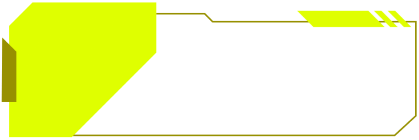
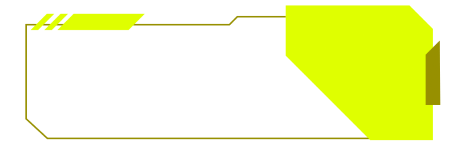
feat: update UI user info

diff --git a/app/src/pages/App/components/UserInfo.js b/app/src/pages/App/components/UserInfo.js
@@ -1,79 +1,12 @@
 import { Box, Typography } from '@mui/material';
-import ArrowForwardIosIcon from '@mui/icons-material/ArrowForwardIos';
+import ArrowBackIos from '@mui/icons-material/ArrowBackIos';
 import PersonOutlineIcon from '@mui/icons-material/PersonOutline';
 import AccountBalanceWalletOutlinedIcon from '@mui/icons-material/AccountBalanceWalletOutlined';
 
 const UserInfo = ({ username, avatarURL, address, numberOfPump }) => {
   return (
-    <Box display="flex" gap={0.5} sx={{ transform: 'translateX(-10px)' }}>
-      <Box position="relative">
-        <img src="/images/profile-container.png" alt="profile-container" />
-        <Box
-          position="absolute"
-          width="100%"
-          height="100%"
-          top={0}
-          left={0}
-          px="7%"
-          display="flex"
-          alignItems="center"
-          gap="17%"
-          sx={{
-            '& .avatar': {
-              display: 'block',
-              width: 75,
-              aspectRatio: '1/1',
-              clipPath: 'polygon(100% 0, 100% 60%, 60% 100%, 0 100%, 0 0)',
-            },
-          }}>
-          <img className="avatar" src={avatarURL || '/images/default-avatar.jpeg'} alt="avatar" />
-          <Box mt="5%" flex={1} display="flex" flexDirection="column" gap={0.5}>
-            <Box position="relative">
-              <img src="/images/user-info-container.png" alt="user-info-container" />
-              <Box
-                position="absolute"
-                top={0}
-                left={0}
-                width="100%"
-                height="100%"
-                pb={1}
-                display="flex"
-                alignItems="center"
-                gap={1}>
-                <PersonOutlineIcon sx={{ fontSize: 20, color: '#F0FF92' }} />
-                <Box flex={1} display="flex" alignItems="center">
-                  <Typography fontSize={20} color="#F0FF92">
-                    {username || 'Unknown user'}
-                  </Typography>
-                </Box>
-                <ArrowForwardIosIcon sx={{ fontSize: 14, color: '#F0FF92' }} />
-              </Box>
-            </Box>
-            <Box position="relative">
-              <img src="/images/user-info-container.png" alt="user-info-container" />
-              <Box
-                position="absolute"
-                top={0}
-                left={0}
-                width="100%"
-                height="100%"
-                pb={1}
-                display="flex"
-                alignItems="center"
-                gap={1}>
-                <AccountBalanceWalletOutlinedIcon sx={{ fontSize: 20, color: '#F0FF92' }} />
-                <Box flex={1} display="flex" alignItems="center">
-                  <Typography fontSize={20} color="#F0FF92">
-                    {address.slice(0, 4)}...{address.slice(-4)}
-                  </Typography>
-                </Box>
-                <ArrowForwardIosIcon sx={{ fontSize: 14, color: '#F0FF92' }} />
-              </Box>
-            </Box>
-          </Box>
-        </Box>
-      </Box>
-      <Box mt="21px" position="relative">
+    <Box display="flex" sx={{ transform: 'translateX(-10px)' }}>
+      <Box mt="23px" mr="-16px" position="relative">
         <img src="/images/pump-container.png" alt="pump-container" />
         <Box
           position="absolute"
@@ -95,6 +28,77 @@ const UserInfo = ({ username, avatarURL, address, numberOfPump }) => {
             lineHeight="30px">
             {numberOfPump}
           </Typography>
+        </Box>
+      </Box>
+      <Box position="relative">
+        <img src="/images/profile-container.png" alt="profile-container" />
+        <Box
+          position="absolute"
+          width="100%"
+          height="100%"
+          top={0}
+          left={0}
+          px="10%"
+          display="flex"
+          alignItems="center"
+          gap="17%"
+          sx={{
+            '& .avatar': {
+              display: 'block',
+              width: 75,
+              aspectRatio: '1/1',
+              objectFit: 'cover',
+              objectPosition: 'center',
+              clipPath: 'polygon(100% 0, 100% 100%, 40% 100%, 0 60%, 0 0)',
+            },
+          }}>
+          <Box mt="5%" flex={1} display="flex" flexDirection="column" gap={0.5}>
+            <Box position="relative">
+              <img src="/images/user-info-container-2.png" alt="user-info-container" />
+              <Box
+                position="absolute"
+                top={0}
+                left={0}
+                width="100%"
+                height="100%"
+                pb={1}
+                px={0.5}
+                display="flex"
+                alignItems="center"
+                gap={1}>
+                <ArrowBackIos sx={{ fontSize: 14, color: '#F0FF92' }} />
+                <Box flex={1} display="flex" justifyContent="flex-end" alignItems="center">
+                  <Typography fontSize={20} color="#F0FF92">
+                    {username || 'Unknown user'}
+                  </Typography>
+                </Box>
+                <PersonOutlineIcon sx={{ fontSize: 20, color: '#F0FF92' }} />
+              </Box>
+            </Box>
+            <Box position="relative">
+              <img src="/images/user-info-container-2.png" alt="user-info-container" />
+              <Box
+                position="absolute"
+                top={0}
+                left={0}
+                width="100%"
+                height="100%"
+                pb={1}
+                px={0.5}
+                display="flex"
+                alignItems="center"
+                gap={1}>
+                <ArrowBackIos sx={{ fontSize: 14, color: '#F0FF92' }} />
+                <Box flex={1} display="flex" justifyContent="flex-end" alignItems="center">
+                  <Typography fontSize={20} color="#F0FF92">
+                    {address.slice(0, 4)}...{address.slice(-4)}
+                  </Typography>
+                </Box>
+                <AccountBalanceWalletOutlinedIcon sx={{ fontSize: 20, color: '#F0FF92' }} />
+              </Box>
+            </Box>
+          </Box>
+          <img className="avatar" src={avatarURL || '/images/default-avatar.jpeg'} alt="avatar" />
         </Box>
       </Box>
     </Box>

diff --git a/app/src/pages/App/components/Referral.js b/app/src/pages/App/components/Referral.js
@@ -1,4 +1,4 @@
-import { Box, Grid, Typography } from '@mui/material';
+import { Box, Grid, Typography, Button } from '@mui/material';
 import KeyboardArrowDownIcon from '@mui/icons-material/KeyboardArrowDown';
 import ContentCopyIcon from '@mui/icons-material/ContentCopy';
 import SendIcon from '@mui/icons-material/Send';
@@ -104,23 +104,45 @@ const Referral = ({ referrals, refCode }) => {
           </Box>
         </Box>
       </Box>
-      <Box display="flex" alignItems="center" gap={1}>
-        <Box px={1} py={0.5} bgcolor="#DFFF00" display="flex" alignItems="center" gap={0.5}>
-          <Typography fontSize={9} fontWeight={500}>
-            REF CODE:
+      {refCode ? (
+        <Box display="flex" alignItems="center" gap={1}>
+          <Box px={1} py={0.5} bgcolor="#DFFF00" display="flex" alignItems="center" gap={0.5}>
+            <Typography fontSize={9} fontWeight={500}>
+              REF CODE:
+            </Typography>
+            <Typography fontSize={8} color="#12140D">
+              uponly.gg/{refCode}
+            </Typography>
+            <ContentCopyIcon
+              sx={{ ml: 1, fontSize: 14, cursor: 'pointer' }}
+              onClick={() => navigator.clipboard.writeText(refCode)}
+            />
+          </Box>
+          <Typography fontSize={11} color="#DFFF00">
+            Earn 10% On All Purchase
           </Typography>
-          <Typography fontSize={8} color="#12140D">
-            uponly.gg/{refCode}
-          </Typography>
-          <ContentCopyIcon
-            sx={{ ml: 1, fontSize: 14, cursor: 'pointer' }}
-            onClick={() => navigator.clipboard.writeText(refCode)}
-          />
         </Box>
-        <Typography fontSize={11} color="#DFFF00">
-          Earn 10% On All Purchase
-        </Typography>
-      </Box>
+      ) : (
+        <Box>
+          <Button
+            sx={{
+              px: 1,
+              py: 0.5,
+              bgcolor: '#DFFF00',
+              borderRadius: 0,
+              '&:active': {
+                bgcolor: '#DFFF00',
+              },
+              '&:hover': {
+                bgcolor: '#DFFF00',
+              },
+            }}>
+            <Typography fontSize={9} fontWeight={500} color="black">
+              CREATE REFERRAL CODE
+            </Typography>
+          </Button>
+        </Box>
+      )}
     </Box>
   );
 };

diff --git a/backend/services/user.service.js b/backend/services/user.service.js
@@ -4,43 +4,31 @@ import { faker } from '@faker-js/faker';
 import admin, { firestore } from '../configs/firebase.config.js';
 import { getActiveSeasonId } from './season.service.js';
 
-const CODE_LENGTH = 8;
-
-export const generateCode = (length) => {
-  const charset = 'abcdefghijklmnopqrstuvwxyz0123456789';
-  let retVal = '';
-  for (let i = 0, n = charset.length; i < length; ++i) {
-    retVal += charset.charAt(Math.floor(Math.random() * n)).toLowerCase();
-  }
-  return retVal;
-};
-
 export const createUserRecord = async ({ message, signature }) => {
   const recoveredAddress = verifyMessage(message, signature).toLowerCase();
 
   const snapshot = await firestore.collection('user').doc(recoveredAddress).get();
   if (!snapshot.exists) {
-    let validReferralCode = false;
-    let referralCode = generateCode(CODE_LENGTH);
-    while (!validReferralCode) {
-      const code = await firestore.collection('user').where('referralCode', '==', referralCode).limit(1).get();
-      if (code.empty) {
-        validReferralCode = true;
+    let validUsername = false;
+    let username = faker.internet.userName();
+    while (!validUsername) {
+      const existedSnapshot = await firestore.collection('user').where('username', '==', username).limit(1).get();
+      if (existedSnapshot.empty) {
+        validUsername = true;
       } else {
-        referralCode = generateCode(CODE_LENGTH);
+        username = faker.internet.userName();
       }
     }
 
-    const username = faker.internet.userName();
     await firestore
       .collection('user')
       .doc(recoveredAddress)
       .set({
         createdAt: admin.firestore.FieldValue.serverTimestamp(),
         username,
-        avatarURL: `https://placehold.co/400x400/1e90ff/FFF?text=${username[0].toUpperCase()}`,
+        avatarURL: faker.image.url({ width: 400, height: 400 }),
         address: recoveredAddress,
-        referralCode,
+        referralCode: '',
         inviteCode: '',
         referralReward: 0,
         holderReward: 0,

diff --git a/app/src/pages/App/index.js b/app/src/pages/App/index.js
@@ -71,13 +71,10 @@ const App = () => {
         <Grid container spacing={1}>
           <Grid item xs={4} sx={{ height: '100%' }}>
             <Box height="100%" display="flex" flexDirection="column" alignItems="flex-start">
-              <UserInfo
-                username={userState?.user?.username || ''}
-                avatarURL={userState?.user?.avatarURL}
-                address={walletState.address}
-                numberOfPump={userState?.gamePlay?.numberOfPump || 0}
-              />
-              <Box flex={1} py={1}>
+              <Box pt={2}>
+                <Logo />
+              </Box>
+              <Box flex={1}>
                 <Referral refCode={userState?.user?.referralCode || ''} referrals={userState?.referralUsers || []} />
               </Box>
               <Earnings referralReward={userState?.user?.referralReward} holderReward={userState?.user?.holderReward} />
@@ -108,7 +105,12 @@ const App = () => {
               flexDirection="column"
               justifyContent="space-between"
               alignItems="flex-end">
-              <Logo />
+              <UserInfo
+                username={userState?.user?.username || ''}
+                avatarURL={userState?.user?.avatarURL}
+                address={walletState.address}
+                numberOfPump={userState?.gamePlay?.numberOfPump || 0}
+              />
               <Leaderboard
                 leaderboardData={leaderboardState.gamePlays}
                 topHoldersRewards={leaderboardState.topHoldersRewards}
